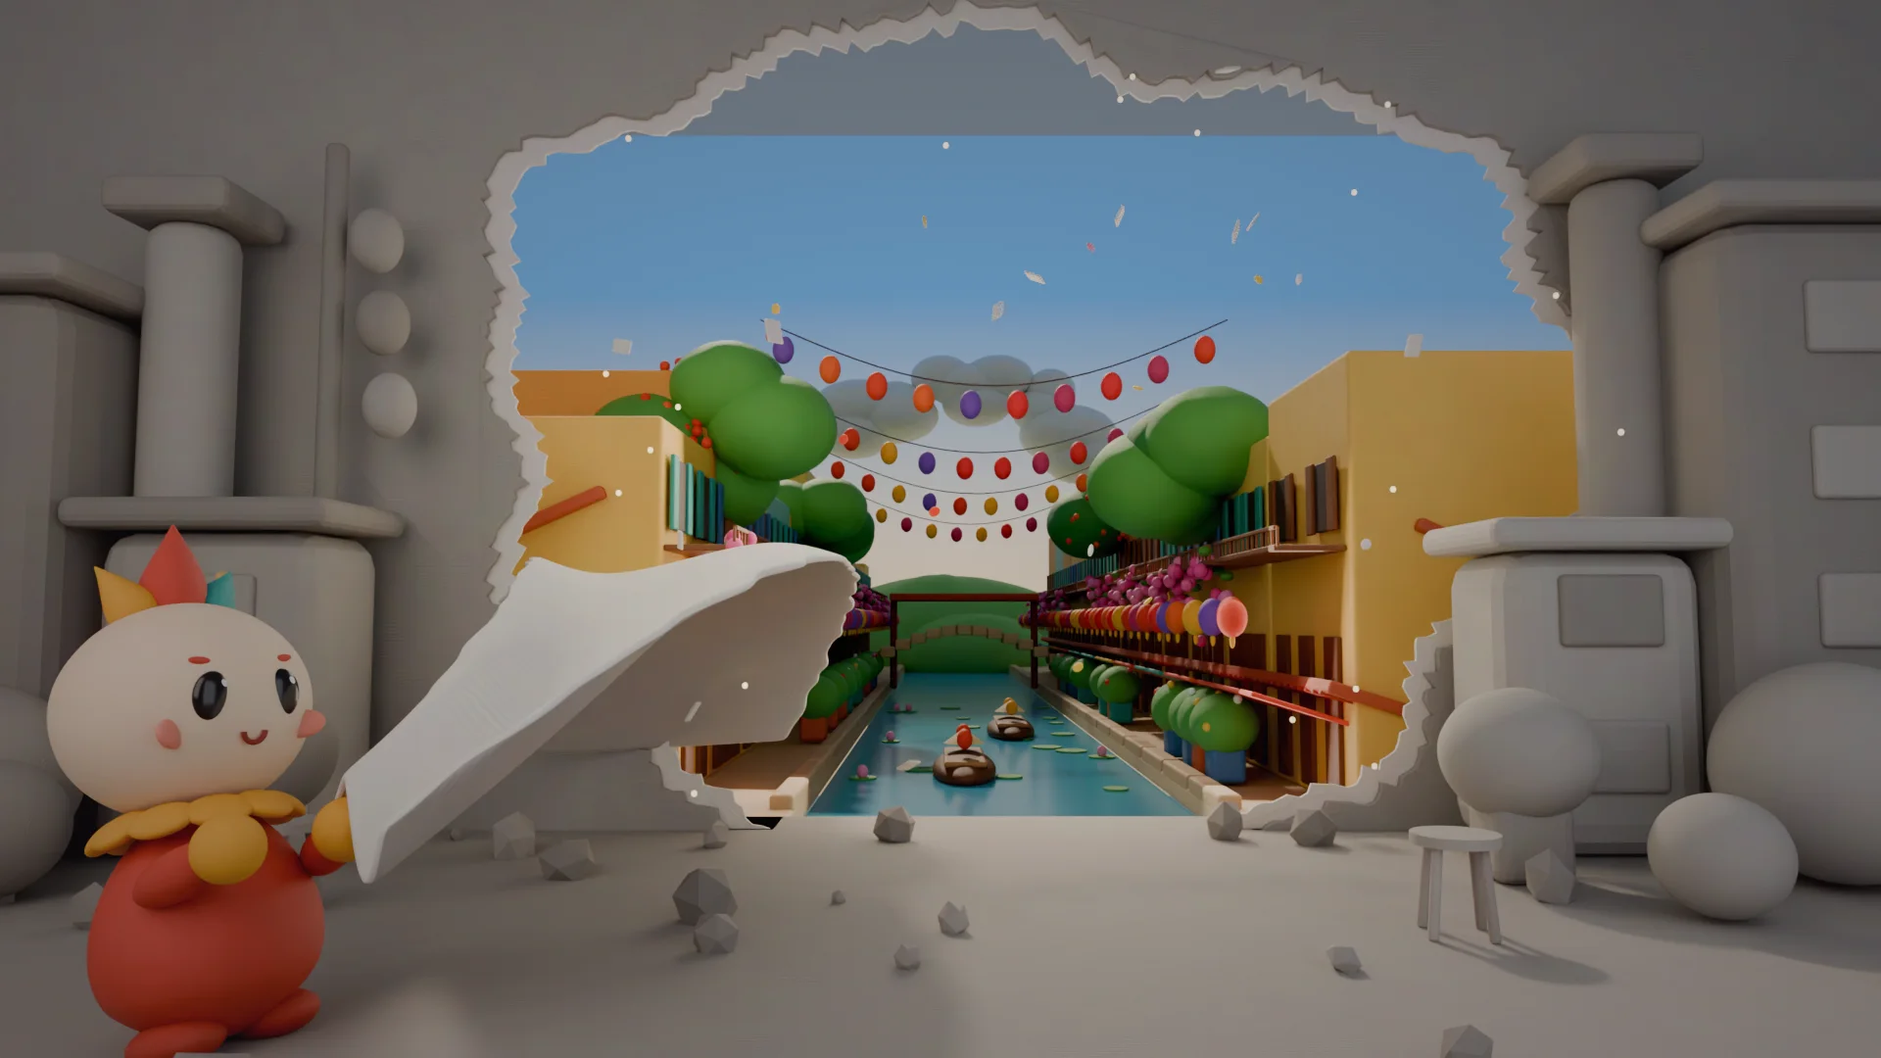
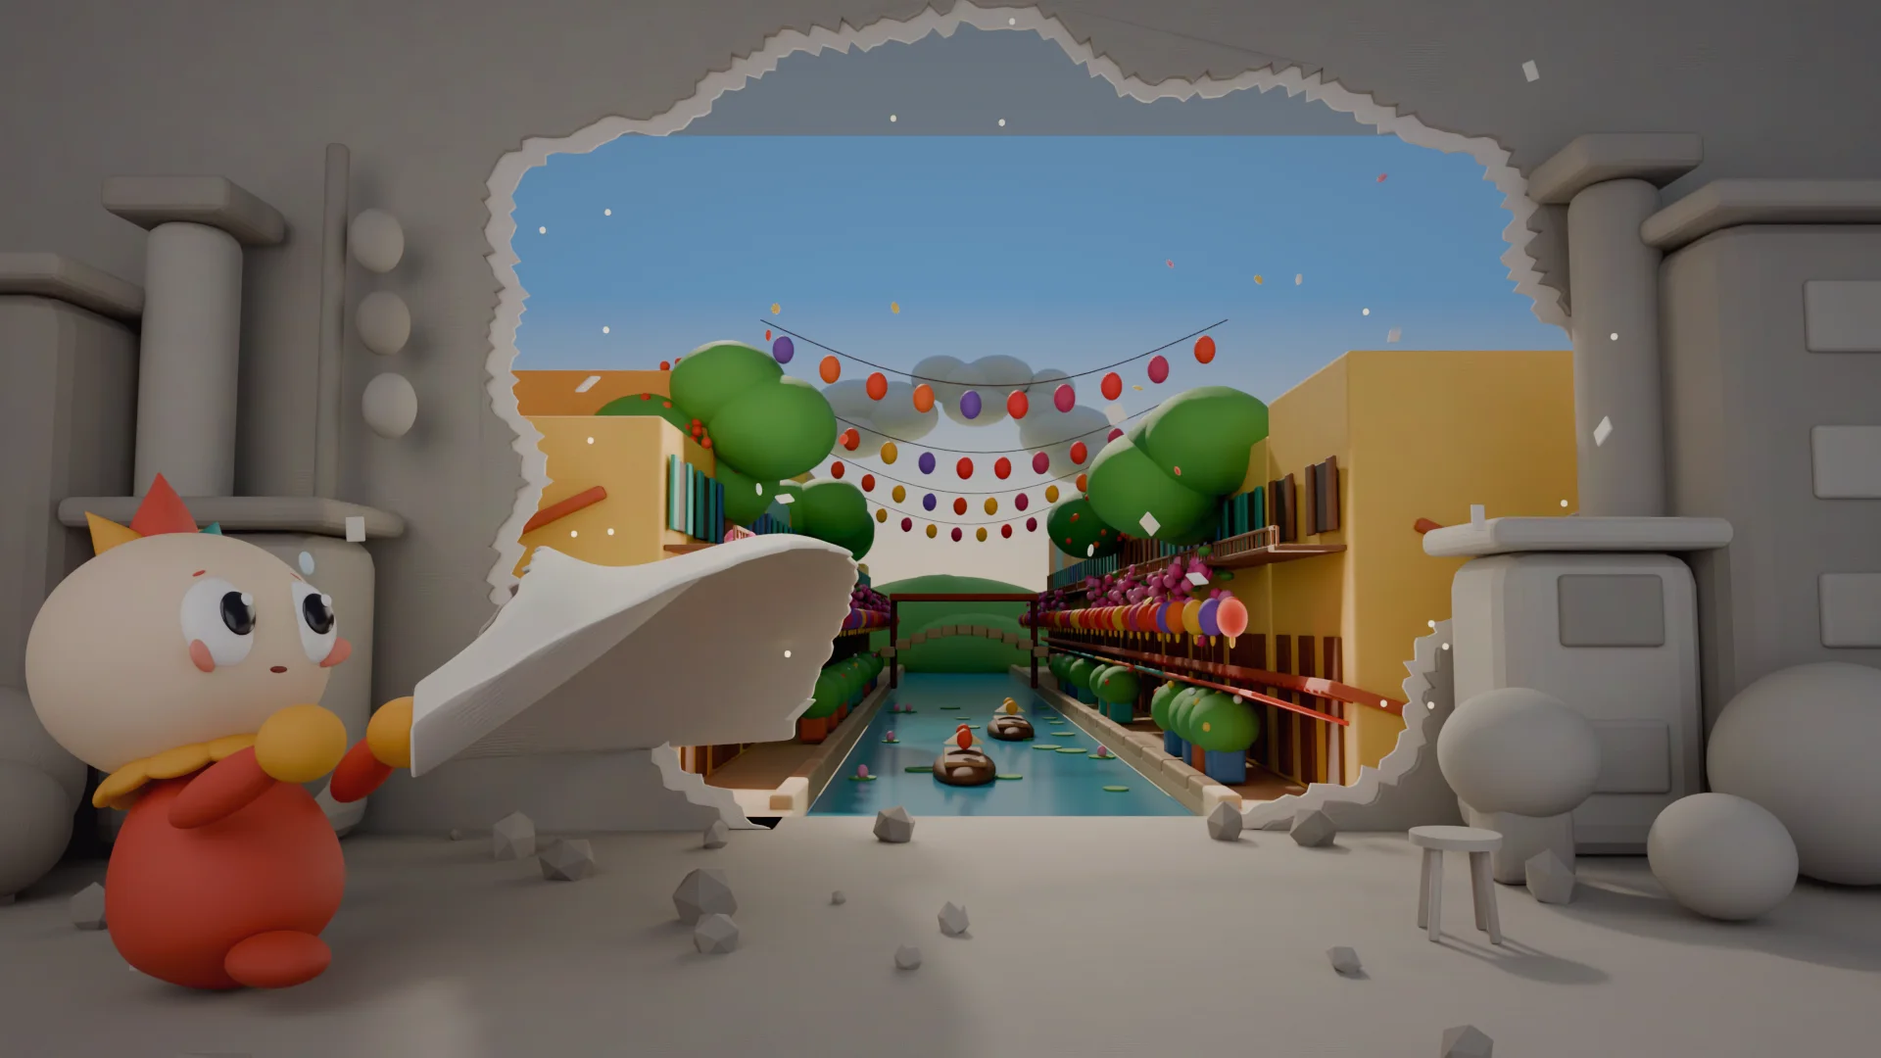
Ảnh bìa: Tò ngả người kéo tấm giấy, mắt tròn to, lông mày cau, mồ hôi và bụi tung
Claude-Session: https://claude.ai/code/session_013s1eWkJqXWVi43yHDY4nms

diff --git a/tools/blender/keyart_bia3.py b/tools/blender/keyart_bia3.py
@@ -1,0 +1,371 @@
+# Ảnh bìa Phố Cũ Bạc Màu, bố cục kiểu "xé tấm xám": Tò ở tiền cảnh kéo một tấm giấy xám khổng lồ,
+# lỗ rách lộ ra phố cổ ven sông rực màu (nhà vàng mái ngói, đèn lồng, hoa giấy, phượng, thuyền, cầu).
+# Chạy: python keyart_bia2.py out.png W H SAMPLES [file.blend]
+import sys, os, bpy, bmesh, math, random
+sys.path.insert(0, os.path.dirname(os.path.abspath(__file__)))
+from clay import *
+from mathutils import Vector
+
+out = sys.argv[1]; W = int(sys.argv[2]); H = int(sys.argv[3]); S = int(sys.argv[4])
+reset()
+sc = bpy.context.scene
+random.seed(11)
+WY = 1.0                       # mặt phẳng tấm giấy xám
+HC = (1.6, 4.4); HR = (6.4, 5.0)   # tâm và bán kính lỗ rách (x, z)
+GREYS = ['#A39D94', '#968F86', '#ADA79E', '#8C867D']
+
+
+def g():
+    return clay('g' + str(random.randint(0, 3)), random.choice(GREYS), rough=0.8, bump=0.5)
+
+
+def box(name, c, size, mat, bevel=0.06, rot=(0, 0, 0)):
+    bpy.ops.mesh.primitive_cube_add(size=1, location=c, rotation=rot)
+    ob = bpy.context.active_object; ob.name = name; ob.scale = size
+    bpy.ops.object.transform_apply(scale=True)
+    ob.data.materials.append(mat)
+    if bevel:
+        b = ob.modifiers.new('bv', 'BEVEL'); b.width = bevel; b.segments = 3; b.limit_method = 'NONE'
+    return ob
+
+
+def ball(name, loc, s, mat, seg=20, lump=0.0):
+    return blob(name, loc, s if isinstance(s, tuple) else (s, s, s), mat, seg=seg, lump=lump)
+
+
+def hole_r(ang):
+    # bán kính lỗ theo góc, có mép lởm chởm
+    k = 1 + 0.07 * math.sin(3 * ang + 0.7) + 0.05 * math.sin(7 * ang + 2.1) + 0.03 * math.sin(13 * ang)
+    return k
+
+
+def inside(x, z, shrink=1.0):
+    dx = (x - HC[0]) / (HR[0] * shrink); dz = (z - HC[1]) / (HR[1] * shrink)
+    return math.hypot(dx, dz) < hole_r(math.atan2(dz, dx))
+
+
+def outline(shrink, n=360, seed=5):
+    rnd = random.Random(seed)
+    pts = []
+    for i in range(n):
+        a = 2 * math.pi * i / n
+        r = hole_r(a) * shrink * (1 + rnd.uniform(-0.018, 0.018))
+        pts.append((HC[0] + HR[0] * r * math.cos(a), HC[1] + HR[1] * r * math.sin(a)))
+    return pts
+
+
+def sheet(name, y, shrink, col, thick):
+    ob = box(name, (0, y + thick / 2, 6.2), (30, thick, 13.6), clay(name, col, rough=0.85, bump=0.9), bevel=0)
+    me = bpy.data.meshes.new(name + 'cut'); bm = bmesh.new()
+    f = bm.faces.new([bm.verts.new((x, y - 1, z)) for x, z in outline(shrink)])
+    ext = bmesh.ops.extrude_face_region(bm, geom=[f])
+    for v in [e for e in ext['geom'] if isinstance(e, bmesh.types.BMVert)]:
+        v.co.y += 2 + thick
+    bmesh.ops.recalc_face_normals(bm, faces=bm.faces)
+    bm.to_mesh(me); bm.free()
+    cut = bpy.data.objects.new(name + 'cut', me); sc.collection.objects.link(cut); cut.hide_render = True
+    bo = ob.modifiers.new('hole', 'BOOLEAN'); bo.operation = 'DIFFERENCE'; bo.object = cut; bo.solver = 'EXACT'
+    d = ob.modifiers.new('dp', 'DISPLACE'); t = bpy.data.textures.new(name + 't', 'CLOUDS'); t.noise_scale = 1.2
+    d.texture = t; d.strength = 0.1; d.direction = 'Y'; d.texture_coords = 'GLOBAL'
+    return ob
+
+# ---------- tấm xám và viền giấy trắng ----------
+sheet('wall', WY, 1.0, '#A8A299', 0.12)
+sheet('rim', WY + 0.12, 0.955, '#F1ECE3', 0.05)
+
+# ---------- thế giới xám phía trước ----------
+box('ground', (0, -6, -0.1), (40, 16, 0.2), clay('gground', '#9C968D', rough=0.9, bump=0.7), bevel=0)
+# khối nhà xám tròn trịa hai bên mép khung
+for (x, y, w, d, h) in [(-9.5, -0.2, 3.2, 2.0, 5.5), (-6.6, 0.0, 2.2, 1.6, 3.2), (-11.5, -2.5, 2.5, 2.0, 2.4),
+                         (9.6, -0.2, 3.0, 2.0, 6.2), (7.1, 0.0, 2.0, 1.6, 3.0), (11.2, -2.8, 2.4, 2.0, 2.0)]:
+    box('gblock', (x, y, h / 2), (w, d, h), g(), bevel=0.35)
+    box('gcap', (x, y - 0.1, h + 0.15), (w + 0.4, d + 0.3, 0.3), g(), bevel=0.12)
+    for k in range(int(h // 1.4)):
+        box('gwin', (x, y - d / 2 - 0.02, 1.0 + k * 1.4), (w * 0.5, 0.12, 0.7), g(), bevel=0.06)
+for (x, y, s) in [(-8.0, -1.8, 0.9), (-7.2, -2.6, 0.6), (-10.8, -4.6, 0.8), (8.4, -2.0, 1.0), (10.2, -4.8, 0.7), (6.6, -3.2, 0.5)]:
+    ball('gball', (x, y, s), (s, s, s * 0.95), g(), seg=32, lump=0.03)
+# chậu cây, ghế, đèn lồng... cũng xám
+for (x, y) in [(-5.6, -1.5), (5.8, -1.6)]:
+    box('gpot', (x, y, 0.35), (0.7, 0.7, 0.7), g(), bevel=0.12)
+    ball('gbush', (x, y, 1.1), (0.7, 0.65, 0.6), g(), seg=24, lump=0.08)
+for (x, y) in [(-4.6, -3.0), (4.4, -3.6)]:
+    bpy.ops.mesh.primitive_cylinder_add(radius=0.32, depth=0.08, location=(x, y, 0.7)); bpy.context.active_object.data.materials.append(g())
+    for a in range(4):
+        an = a * math.pi / 2 + 0.6
+        rod('gleg', (x + 0.22 * math.cos(an), y + 0.22 * math.sin(an), 0.68), (x + 0.3 * math.cos(an), y + 0.3 * math.sin(an), 0.0), 0.04, g())
+rod('gpole', (-6.0, 0.4, 0), (-6.0, 0.4, 7.5), 0.12, g())
+for k in range(3):
+    ball('glan', (-5.5 + k * 0.1, 0.3, 6.4 - k * 0.9), (0.28, 0.28, 0.36), g(), seg=20)
+for k in range(5):
+    box('gstep', (-10.5 + k * 0.0, -4.5 + k * 0.9, 0.25 + k * 0.5), (3.4, 1.0, 0.5 + k * 1.0), g(), bevel=0.15)
+for (x, y, h) in [(-7.4, 0.2, 6.5), (7.9, 0.3, 7.0)]:
+    rod('gcol', (x, y, 0), (x, y, h), 0.45, g())
+    box('gcolcap', (x, y, h + 0.2), (1.3, 1.3, 0.4), g(), bevel=0.12)
+# đá vụn
+for k in range(60):
+    x = random.uniform(-13, 13); y = random.uniform(-9.5, 0.6); s = random.uniform(0.06, 0.32) * (1.4 if y < -6 else 1)
+    bpy.ops.mesh.primitive_ico_sphere_add(subdivisions=1, radius=1, location=(x, y, s * 0.5))
+    r = bpy.context.active_object; r.scale = (s, s * 0.9, s * 0.7)
+    r.rotation_euler = (random.uniform(0, 3), random.uniform(0, 3), random.uniform(0, 3)); r.data.materials.append(g())
+
+# ---------- thế giới có màu sau lỗ rách: phố cổ ven sông ----------
+RIVER = (-1.2, 4.0)   # hai bờ sông theo x
+WATER = clay('water', '#3FA9C9', rough=0.05, sss=0.0, bump=0.05, gloss=True)
+box('water', (1.4, 26, -0.35), (5.2, 50, 0.1), WATER, bevel=0)
+box('bankL', (-8, 26, -0.15), (13.6, 50, 0.3), clay('stoneL', '#D9B98E', bump=0.6), bevel=0.05)
+box('bankR', (11, 26, -0.15), (14, 50, 0.3), clay('stoneR', '#D9B98E', bump=0.6), bevel=0.05)
+for y in range(3, 48, 2):
+    box('kerbL', (RIVER[0] - 0.15, y + 0.5, 0.05), (0.3, 1.9, 0.25), clay('kerb', '#C9A57A'), bevel=0.05)
+    box('kerbR', (RIVER[1] + 0.15, y + 0.5, 0.05), (0.3, 1.9, 0.25), clay('kerb', '#C9A57A'), bevel=0.05)
+
+def hbox(s, xf, c, size, mat, bevel=0.05, tilt=0.0):
+    # c = (a dọc phố, d nhô ra phía sông, z); size = (dài dọc phố, nhô, cao)
+    a, d, z = c
+    ob = box('h', (xf + s * d, a, z), (size[1], size[0], size[2]), mat, bevel=bevel)
+    if tilt:
+        ob.rotation_euler = (0, s * tilt, 0)
+    return ob
+
+WALLS = ['#EDC14E', '#E9B23C', '#F2CF6A', '#E7A24A', '#F0C35A', '#8CC9B9']
+SHUT = ['#2E8C7F', '#3D6E9E', '#7A4A2A', '#2E9C93']
+LAN = ['#E2452D', '#F2B532', '#C23A6A', '#F06B2F', '#7B4BB0', '#E8333A']
+
+def house(s, xf, a0, L, h, wall, shut):
+    a = a0 + L / 2
+    hbox(s, xf, (a, -1.6, h / 2), (L, 3.2, h), clay('w' + wall, wall, bump=0.7), bevel=0.06)
+    # mái ngói hai mái, dốc ra phía sông
+    for k in range(2 if h > 4 else 1):
+        rz = h + 0.15 if k == 0 else 3.0
+        r = hbox(s, xf, (a, 0.35 if k else -0.5, rz), (L + 0.3, 3.4 if k == 0 else 1.4, 0.16), clay('roof', '#C25A3C', bump=0.9), bevel=0.04, tilt=-0.42 if k == 0 else -0.3)
+        for q in range(int(L / 0.32)):
+            hbox(s, xf, (a0 + 0.16 + q * 0.32, 0.35 if k else -0.5, rz - 0.08), (0.1, 3.4 if k == 0 else 1.4, 0.06), clay('roofl', '#A94A30'), bevel=0.02, tilt=-0.42 if k == 0 else -0.3)
+    # cửa sổ tầng trên, cửa gỗ tầng dưới
+    for fx in (0.25, 0.75):
+        wa = a0 + L * fx
+        hbox(s, xf, (wa, 0.02, 3.9), (0.6, 0.1, 0.9), clay('dark', '#3A2A20'), bevel=0.02)
+        for sd in (-1, 1):
+            hbox(s, xf, (wa + sd * 0.45, 0.08, 3.9), (0.28, 0.06, 0.94), clay('s' + shut, shut), bevel=0.02)
+    for q in range(3):
+        hbox(s, xf, (a0 + L * (0.2 + 0.3 * q), 0.03, 1.1), (0.55, 0.08, 2.0), clay('door', '#6B3F22', bump=0.6), bevel=0.02)
+    # ban công gỗ + hoa giấy rủ
+    hbox(s, xf, (a, 0.45, 3.2), (L * 0.9, 0.9, 0.08), clay('wood', '#7A4A2A'), bevel=0.02)
+    hbox(s, xf, (a, 0.88, 3.45), (L * 0.9, 0.05, 0.05), clay('wood', '#7A4A2A'), bevel=0.01)
+    for q in range(int(L * 4)):
+        aa = a0 + 0.1 + q * L / (L * 4)
+        hbox(s, xf, (aa, 0.88, 3.33), (0.03, 0.03, 0.25), clay('wood', '#7A4A2A'), bevel=0)
+    if random.random() < 0.7:
+        for q in range(22):
+            aa = a0 + random.uniform(0.1, L - 0.1); zz = 3.4 - abs(random.gauss(0, 0.6))
+            ball('hg', (xf + s * random.uniform(0.6, 1.0), aa, zz), random.uniform(0.09, 0.14), clay('hg', random.choice(['#E6529A', '#F06BAA', '#D93F86', '#F28BC0'])), seg=12)
+        for q in range(8):
+            ball('hgl', (xf + s * random.uniform(0.5, 0.95), a0 + random.uniform(0.1, L - 0.1), 3.4 - abs(random.gauss(0, 0.4))), (0.12, 0.12, 0.08), clay('hgl', '#4E8E3C'), seg=12)
+    # đèn lồng dưới mái hiên
+    for q in range(3):
+        aa = a0 + L * (0.2 + 0.3 * q)
+        ball('lan', (xf + s * 1.3, aa, 2.35), (0.2, 0.2, 0.26), clay('l', random.choice(LAN), sss=0.6), seg=20)
+        ball('lant', (xf + s * 1.3, aa, 2.05), (0.04, 0.04, 0.1), clay('tas', '#F2B532'), seg=10)
+    # mái hiên vải dưới tầng
+    hbox(s, xf, (a, 0.9, 2.65), (L * 0.85, 1.8, 0.06), clay('awn', random.choice(['#E2452D', '#2E9C93', '#F2B532'])), bevel=0.02, tilt=-0.3)
+
+for side, xf in ((1, RIVER[0] - 1.6), (-1, RIVER[1] + 1.6)):
+    a = 2.2
+    while a < 44:
+        L = random.uniform(2.6, 3.8); h = random.uniform(4.6, 6.4)
+        house(side, xf, a, L, h, random.choice(WALLS), random.choice(SHUT))
+        a += L + 0.08
+
+# cây phượng và cây xanh hai bờ
+def tree(x, y, h, flowers):
+    rod('trunk', (x, y, 0), (x + 0.2, y, h * 0.6), 0.2, clay('bark', '#7A5534'))
+    for k in range(8):
+        cx = x + random.uniform(-1.5, 1.5); cz = h * 0.78 + random.uniform(-0.5, 0.8); s = random.uniform(0.8, 1.25)
+        ball('cano', (cx, y + random.uniform(-1, 1), cz), (s, s, s * 0.8), clay('leaf' + str(k % 3), ['#4F9A45', '#62B04F', '#3F8A3E'][k % 3], bump=0.9), seg=24, lump=0.12)
+        if flowers:
+            for q in range(14):
+                ball('ph', (cx + random.uniform(-s, s) * 0.85, y - s * 0.7 + random.uniform(-0.3, 0.3), cz + random.uniform(-s, s) * 0.6), 0.09, clay('ph', random.choice(['#E2452D', '#F0622F', '#D8351F'])), seg=10)
+tree(-3.0, 6.5, 6.5, True)
+tree(5.8, 9.0, 6.0, False)
+tree(-3.2, 17, 6.0, False)
+tree(6.0, 21, 6.5, True)
+
+for k in range(26):
+    side = random.choice((-1, 1)); x = (RIVER[0] - 0.6) if side < 0 else (RIVER[1] + 0.6); y = random.uniform(3, 30)
+    box('cpot', (x, y, 0.3), (0.5, 0.5, 0.5), clay('cpot', random.choice(['#C2643F', '#2E9C93', '#3D6E9E'])), bevel=0.08)
+    ball('cbush', (x, y, 0.85), (0.5, 0.5, 0.45), clay('leaf1', '#62B04F', bump=0.9), seg=20, lump=0.1)
+    for q in range(5):
+        ball('cfl', (x + random.uniform(-0.35, 0.35), y + random.uniform(-0.35, 0.35), 0.9 + random.uniform(-0.1, 0.35)), 0.07, clay('fl', random.choice(['#F28BA8', '#F7D04A', '#FFFFFF', '#E2452D'])), seg=10)
+for k in range(30):
+    x = random.uniform(RIVER[0] + 0.3, RIVER[1] - 0.3); y = random.uniform(3.5, 25)
+    if abs(x - 1.4) < 0.9 and random.random() < 0.7:
+        continue
+    bpy.ops.mesh.primitive_cylinder_add(vertices=20, radius=random.uniform(0.18, 0.32), depth=0.03, location=(x, y, -0.28))
+    bpy.context.active_object.data.materials.append(clay('lotus', '#5FA84E'))
+    if random.random() < 0.3:
+        ball('lotusf', (x, y, -0.18), (0.1, 0.1, 0.12), clay('lotf', '#F49AC1'), seg=12)
+
+# dây đèn lồng giăng ngang sông (kiểu Hội An)
+for y, zt in [(5.5, 6.8), (10.0, 6.4), (15.5, 6.2), (22.0, 6.0)]:
+    pts = [Vector((RIVER[0] - 0.9 + (RIVER[1] - RIVER[0] + 1.8) * t / 20, y, zt - 1.0 * math.sin(math.pi * t / 20))) for t in range(21)]
+    for p0, p1 in zip(pts, pts[1:]):
+        rod('cord', p0, p1, 0.012, clay('cord', '#2E2A27'))
+    for p in pts[1:-1:2]:
+        ball('lan2', (p.x, p.y, p.z - 0.3), (0.17, 0.17, 0.22), clay('l', random.choice(LAN), sss=0.6), seg=16)
+
+# thuyền nhỏ có đèn trên sông
+def boat(x, y, col):
+    b = ball('boat', (x, y, -0.2), (0.55, 1.6, 0.3), clay('boat', '#6B3F22'), seg=24)
+    box('boatin', (x, y, 0.0), (0.7, 2.4, 0.1), clay('boati', '#A87A4A'), bevel=0.05)
+    for k in (-0.6, 0.5):
+        ball('blan', (x, y + k, 0.35), (0.14, 0.14, 0.17), clay('l', col, sss=0.6), seg=14)
+    bpy.ops.mesh.primitive_cone_add(vertices=24, radius1=0.35, depth=0.25, location=(x, y + 0.1, 0.35))
+    bpy.context.active_object.data.materials.append(clay('non', '#E8CF8F'))
+boat(1.0, 8.5, '#E2452D')
+boat(2.2, 16.0, '#F2B532')
+
+# cầu vòm đá phía xa
+for k in range(13):
+    t = k / 12; x = RIVER[0] - 0.5 + (RIVER[1] - RIVER[0] + 1) * t; z = 1.0 + 1.0 * math.sin(math.pi * t)
+    box('bridge', (x, 30, z), (0.5, 1.6, 0.35), clay('brg', '#E0C092'), bevel=0.05)
+box('bridgeRoof', (1.4, 30, 3.1), (5.0, 2.0, 0.25), clay('roof', '#C25A3C'), bevel=0.05)
+for x in (-1.0, 3.8):
+    rod('bp', (x, 30, 0), (x, 30, 3.0), 0.12, clay('brp', '#9B3E2A'))
+
+# đồi xanh và trời
+for k in range(10):
+    x = random.uniform(-16, 18); s = random.uniform(4, 8)
+    ball('hill', (x, 52 + random.uniform(0, 6), 0.5), (s, s * 0.6, s * 0.55), clay('hill', random.choice(['#7DBE6A', '#6CB25E', '#8FCB78'])), seg=24, lump=0.2)
+sky = bpy.data.materials.new('sky'); sky.use_nodes = True
+nt = sky.node_tree; n = nt.nodes; l = nt.links
+n.remove(n['Principled BSDF'])
+em = n.new('ShaderNodeEmission'); em.inputs['Strength'].default_value = 1.6
+tc = n.new('ShaderNodeTexCoord'); sep = n.new('ShaderNodeSeparateXYZ'); l.new(tc.outputs['Generated'], sep.inputs[0])
+cr = n.new('ShaderNodeValToRGB')
+cr.color_ramp.elements[0].color = srgb('#FFE7B8'); cr.color_ramp.elements[1].color = srgb('#5FA8E8')
+cr.color_ramp.elements[0].position = 0.25; cr.color_ramp.elements[1].position = 0.75
+l.new(sep.outputs['Y'], cr.inputs['Fac']); l.new(cr.outputs['Color'], em.inputs['Color'])
+l.new(em.outputs['Emission'], n['Material Output'].inputs['Surface'])
+bpy.ops.mesh.primitive_plane_add(size=1, location=(0, 62, 12)); sp = bpy.context.active_object
+sp.scale = (120, 40, 1); sp.rotation_euler = (math.radians(90), 0, 0); sp.data.materials.append(sky)
+for (cx, cz, s) in [(-6, 13, 3.2), (4, 15, 2.6), (12, 12, 3.4), (-14, 11, 2.8)]:
+    for q in range(7):
+        ball('cloud', (cx + random.uniform(-1.3, 1.3) * s, 58, cz + random.uniform(-0.3, 0.5) * s), (s * random.uniform(0.55, 0.9),) * 2 + (s * 0.5,),
+             clay('cloud', '#FFFAF2', sss=0.5, bump=0.1), seg=24, lump=0.05)
+
+# ---------- Tò và tấm giấy đang bóc ----------
+s = 0.8
+to = build_to(root_loc=(-3.7, -5.0, 0.0), lean=0.0, arms='grab', turn=math.radians(68))
+# --- tạo dáng: ngả người ra sau, chân choãi, đầu to, mắt tròn to có thần, mặt quyết tâm ---
+for o in list(to.children):
+    n = o.name
+    if n.startswith(('eye', 'spec', 'brow', 'smile')):
+        bpy.data.objects.remove(o); continue
+    if n == 'legL':
+        o.location = (-0.32, -0.75, 0.16); o.rotation_euler = (0.35, 0, 0)
+    if n == 'legR':
+        o.location = (0.34, 0.55, 0.14); o.rotation_euler = (-0.4, 0, 0)
+    if n.startswith('cheek'):
+        o.location = Vector(o.location) + Vector((0, -0.2, 0.05)); o.scale = (o.scale[0] * 1.1, o.scale[1], o.scale[2] * 1.1)
+    if n == 'head':
+        o.scale = (1.1, 1.04, 1.02)
+    if n.startswith('arm'):
+        o.location = Vector(o.location) + Vector((0, -0.25, 0.1)); o.scale = (o.scale[0], o.scale[1] * 1.25, o.scale[2])
+    if n.startswith('hand'):
+        o.location = Vector(o.location) + Vector((0, -0.45, 0.12)); o.scale = (0.3, 0.3, 0.28)
+WHT = clay('eyew', '#FFFFFF', rough=0.25, sss=0.05, bump=0.05)
+PUP = clay('pupil', '#17121A', gloss=True)
+for sd in (-1, 1):
+    blob(f'eyeW{sd}', (sd * 0.37, -0.88, 2.72), (0.31, 0.16, 0.36), WHT, parent=to, seg=40, lump=0)
+    blob(f'pupil{sd}', (sd * 0.37 + 0.04, -1.03, 2.75), (0.15, 0.05, 0.18), PUP, parent=to, seg=32, lump=0)
+    blob(f'glint{sd}', (sd * 0.37 + 0.1, -1.08, 2.85), (0.05, 0.015, 0.055), clay('spec', '#FFFFFF', gloss=True), parent=to, seg=16, lump=0)
+    # lông mày cau lại: đầu trong thấp xuống
+    blob(f'brow{sd}', (sd * 0.36, -0.8, 3.15), (0.17, 0.07, 0.05), clay('to_red', '#C23A28'), rot=(0.25, sd * 0.35, 0), parent=to, seg=24, lump=0)
+# miệng mím cố sức (vệt nhỏ hơi xệ)
+blob('mouth', (0.02, -0.93, 2.32), (0.1, 0.03, 0.035), clay('mouth', '#7A2318'), rot=(0.3, 0, 0.12), parent=to, seg=20, lump=0)
+# giọt mồ hôi và bụi tung sau gót
+blob('sweat', (0.78, -0.62, 3.35), (0.07, 0.05, 0.11), clay('sweat', '#BFE6F5', rough=0.1, sss=0.3), parent=to, seg=16, lump=0)
+for k in range(6):
+    blob('puff', (0.5 + random.uniform(-0.3, 0.5), 0.9 + random.uniform(0, 0.6), 0.15 + random.uniform(0, 0.3)), (0.18, 0.16, 0.14), clay('gpuff', '#B9B3AA', rough=1.0), parent=to, seg=16, lump=0.04)
+to.rotation_euler = (-0.32, 0, math.radians(68))   # ngả ra sau, quay về phía tấm giấy
+to.scale = (s, s, s)
+bpy.context.view_layer.update()
+hands = [o for o in to.children if o.name.startswith('hand')]
+hp = sum((o.matrix_world.translation for o in hands), Vector()) / len(hands)
+
+def bez(p0, p1, p2, p3, t):
+    u = 1 - t
+    return p0 * u ** 3 + p1 * 3 * u * u * t + p2 * 3 * u * t * t + p3 * t ** 3
+
+# tấm bóc: gốc ở mép dưới-trái lỗ rách trên tường, đổ xuống đất, cuộn một vòng rồi lên tay Tò
+P0 = Vector((-2.9, WY - 0.06, 0.9)); P1 = Vector((-1.6, -0.8, 3.6)); P2 = Vector((-0.4, -4.4, 3.2)); P3 = hp + Vector((0.3, 0.05, 0.05))
+me = bpy.data.meshes.new('flap'); bm = bmesh.new()
+N, M = 64, 22
+grid = []
+for i in range(N + 1):
+    t = i / N
+    p = bez(P0, P1, P2, P3, t)
+    tang = (bez(P0, P1, P2, P3, min(1, t + 0.01)) - bez(P0, P1, P2, P3, max(0, t - 0.01))).normalized()
+    side = tang.cross(Vector((0, 0, 1)))
+    if side.length < 0.1:
+        side = Vector((1, 0, 0))
+    side.normalize()
+    wid = 4.2 * (1 - 0.8 * t ** 1.1)
+    row = []
+    for j in range(M + 1):
+        u = j / M - 0.5
+        jag = random.uniform(-0.07, 0.07) if j in (0, M) else 0
+        q = p + side * (u * wid + jag)
+        q.z += 0.25 * math.sin(u * math.pi * 2 + t * 6) * t   # gợn sóng giấy
+        row.append(bm.verts.new(q))
+    grid.append(row)
+for i in range(N):
+    for j in range(M):
+        bm.faces.new((grid[i][j], grid[i][j + 1], grid[i + 1][j + 1], grid[i + 1][j]))
+bm.to_mesh(me); bm.free()
+flap = bpy.data.objects.new('flap', me); sc.collection.objects.link(flap)
+for p in me.polygons: p.use_smooth = True
+so = flap.modifiers.new('so', 'SOLIDIFY'); so.thickness = 0.06
+sb = flap.modifiers.new('sub', 'SUBSURF'); sb.levels = 1; sb.render_levels = 2
+flap.data.materials.append(clay('flapc', '#EFEAE0', rough=0.85, bump=0.8)); flap.data.materials.append(clay('flapg', '#B3ADA4', rough=0.85, bump=0.8)); so.material_offset = 1
+
+# mảnh giấy bay, cánh hoa và đốm nắng gần lỗ rách
+for k in range(12):
+    x = random.uniform(-5, 7); y = random.uniform(-3, 0.8); z = random.uniform(0.6, 7.5)
+    if inside(x, z, 1.1) or random.random() < 0.4:
+        box('flake', (x, y, z), (random.uniform(0.12, 0.3), 0.025, random.uniform(0.1, 0.22)), clay('flk', '#E2DDD3'), bevel=0.01,
+            rot=(random.uniform(0, 3), random.uniform(0, 3), random.uniform(0, 3)))
+for k in range(14):
+    x = random.uniform(-2, 5); y = random.uniform(-1.5, 0.8); z = random.uniform(1.5, 6.5)
+    pt = ball('petal', (x, y, z), (0.07, 0.02, 0.05), clay('pt', random.choice(['#F28BA8', '#F7D04A', '#E2452D', '#FFFFFF'])), seg=10)
+    pt.rotation_euler = (random.uniform(0, 3), random.uniform(0, 3), random.uniform(0, 3))
+glow = bpy.data.materials.new('glow'); glow.use_nodes = True
+gn = glow.node_tree.nodes; gn.remove(gn['Principled BSDF'])
+ge = gn.new('ShaderNodeEmission'); ge.inputs['Color'].default_value = srgb('#FFE9A8'); ge.inputs['Strength'].default_value = 8
+glow.node_tree.links.new(ge.outputs[0], gn['Material Output'].inputs['Surface'])
+for k in range(26):
+    ang = random.uniform(0, 2 * math.pi); rr = random.uniform(0.6, 1.1)
+    x = HC[0] + HR[0] * rr * math.cos(ang); z = HC[1] + HR[1] * rr * math.sin(ang)
+    if z > 0.5:
+        ball('spark', (x, random.uniform(-0.5, 0.8), z), 0.035, glow, seg=8)
+
+# ---------- ánh sáng, máy quay ----------
+sun = bpy.data.lights.new('sun', 'SUN'); sun.energy = 5.5; sun.color = (1.0, 0.86, 0.66); sun.angle = math.radians(4)
+so_ = bpy.data.objects.new('sun', sun); sc.collection.objects.link(so_)
+so_.rotation_euler = (math.radians(52), math.radians(-14), math.radians(205))   # nắng từ phía sau-trái chiếu tới
+area('key', (-6, -12, 7), (-2, 0, 2), 1500, (1.0, 0.93, 0.85), 10)
+area('fill', (7, -10, 4), (2, 0, 2), 900, (0.85, 0.9, 1.0), 10)
+area('holeglow', (1.4, 3.0, 4.0), (0, -6, 2), 1500, (1.0, 0.9, 0.7), 8)
+w = bpy.data.worlds.new('w'); sc.world = w; w.use_nodes = True
+w.node_tree.nodes['Background'].inputs['Color'].default_value = srgb('#CFE3F5')
+w.node_tree.nodes['Background'].inputs['Strength'].default_value = 0.55
+
+cam = bpy.data.objects.new('cam', bpy.data.cameras.new('cam')); sc.collection.objects.link(cam)
+cam.location = (0.6, -13.0, 2.3); look_at(cam, (0.6, 2.0, 3.4))
+cam.data.lens = 24
+cam.data.dof.use_dof = True; cam.data.dof.focus_object = to; cam.data.dof.aperture_fstop = 4.0
+sc.camera = cam
+
+cycles(sc, W, H, S)
+sc.render.filepath = out
+bpy.ops.render.render(write_still=True)
+if len(sys.argv) > 5:
+    bpy.ops.wm.save_as_mainfile(filepath=sys.argv[5])
